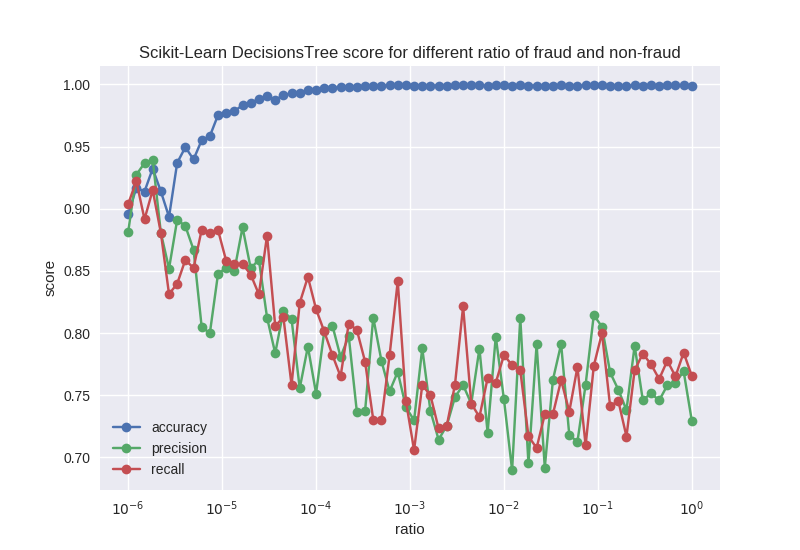
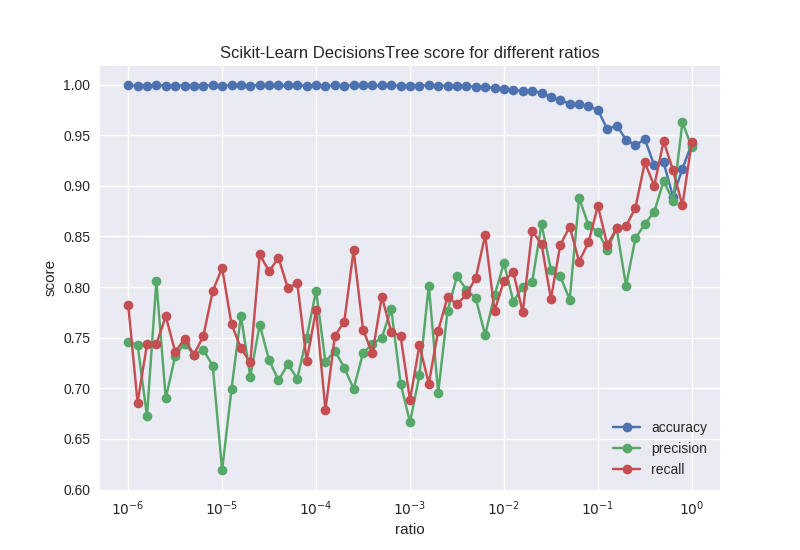
added a plotting tool and created a test function for the dataprocessor

diff --git a/src/decisiontree.py b/src/decisiontree.py
@@ -5,7 +5,7 @@ import scikitplot as skplt
 import time
 from sklearn import tree
 from sklearn.metrics import accuracy_score, recall_score, precision_score
-
+from plotting import plotting_ratio
 from data_process import retrieve_data
 
 """
@@ -15,9 +15,10 @@ runs the classifier class with data from the data package
 def decisionsTree_clf_sklearn():
     # ratio_ = 0.25
 
-    n = 50
-    ratio_ = 10**(-np.linspace(2, 0, n))
-    print (ratio_)
+    n = 61
+    ratio_ = 10**(-np.linspace(6, 0, n))
+    # ratio_ = np.arange(1,101)/100
+    print("ratio: ", ratio_)
     n = len(ratio_)
     timer = np.zeros(n)
     acc_score = np.zeros(n)
@@ -38,20 +39,9 @@ def decisionsTree_clf_sklearn():
         timer[i] =time2 -time1
         # print("time = ",timer[i]," s")
 
-    plt.semilogx(ratio_,acc_score, "-o")
-    plt.semilogx(ratio_,prec_score, "-o")
-    plt.semilogx(ratio_,rec_score, "-o")
-    plt.xlabel("ratio")
-    plt.ylabel("score")
-    plt.title("Scikit-Learn DecisionsTree score for different ratios")
-    plt.legend(['accuracy', "precision", "recall"])
-    plt.show()
-
-
-    print ("ratio: ",ratio_)
+    plotting_ratio(ratio_, acc_score, prec_score, rec_score, "DecisionsTree")
     print("accuracy_score",acc_score)
     print("precision_score",prec_score)
     print("rec_score",rec_score)
-
 
 decisionsTree_clf_sklearn()

diff --git a/src/test_data_process.py b/src/test_data_process.py
@@ -1,0 +1,29 @@
+from data_process import retrieve_data
+import numpy as np
+import unittest
+
+class DataProcessor_test(unittest.TestCase):
+    """
+    This class is a testfunction for the dataprocessor.
+    """
+    def test_canary(self):
+        """testing that the simplest case works."""
+        self.assertEqual(2, 2)
+
+    def test_arrays(self):
+        """
+        testing that the ouput has correct dimension
+        """
+
+
+    def test_undersampling(self):
+        """
+        Checks that the ratio property of the function is working properly
+        """
+        with self.assertRaises(ValueError):
+            retrieve_data(undersampling=True, ratio=1.1)
+        X_train, X_test, y_train, y_test = retrieve_data( undersampling=True,ratio=1)
+        print(len(X_train))
+
+if __name__ == '__main__':
+    unittest.main()

diff --git a/src/plotting.py b/src/plotting.py
@@ -1,0 +1,20 @@
+import numpy as np
+import matplotlib.pyplot as plt
+
+"""
+As we progressed we saw that we wanted to plot in the same way for a lot of the
+methods, so we decided to create a generalized script.
+"""
+
+def plotting_ratio(ratio_, acc_score, prec_score, rec_score, title_method):
+    # plt.plot(ratio_,acc_score, "-o")
+    # plt.plot(ratio_,prec_score, "-o")
+    # plt.plot(ratio_,rec_score, "-o")
+    plt.semilogx(ratio_,acc_score, "-o")
+    plt.semilogx(ratio_,prec_score, "-o")
+    plt.semilogx(ratio_,rec_score, "-o")
+    plt.xlabel("ratio")
+    plt.ylabel("score")
+    plt.title("Scikit-Learn "+ title_method +" score for different ratios")
+    plt.legend(['accuracy', "precision", "recall"])
+    plt.show()

diff --git a/src/data_process.py b/src/data_process.py
@@ -5,6 +5,7 @@ import pandas as pd
 import numpy as np
 import os
 from sklearn.model_selection import train_test_split
+
 def retrieve_data( undersampling=False, ratio = 1):
     path = os.path.dirname(os.path.realpath(__file__))
     file1 = path + "/../data/creditcard_part1.csv"
@@ -32,6 +33,9 @@ def retrieve_data( undersampling=False, ratio = 1):
 
     ### Do undersampling to fix imbalanced class
     if undersampling:
+        if ratio > 1:
+            raise ValueError("ratio cannot be bigger than one")
+
         indices_nonfraud = np.where(y==0)[0]
         indices_fraud = np.where(y==1)[0]
 

diff --git a/src/neuralnetwork.py b/src/neuralnetwork.py
@@ -29,7 +29,7 @@ def neuralnet_clf_sklearn():
         time1 = time.time()
         print(int(100*i/len(learning_rate)), "%", end = "\r")
         clf = sklearn.neural_network.MLPClassifier(
-                                hidden_layer_sizes = (10,10),
+                                hidden_layer_sizes = (20,20),
                                 learning_rate = "adaptive",
                                 learning_rate_init = learning_rate[i],
                                 max_iter = 1000,

diff --git a/README.md b/README.md
@@ -7,8 +7,7 @@ Machine learning project in FYS-STK4155/3155 looking into credit card fraud dete
 
 
 
-We have made a testfunction for the data processor, but since we used scikitlearns
-packages which has been heavily tested, we have not created test for these.
+We have made a testfunction for the data processor, but since we used scikitlearns packages which has been heavily tested, we have not created test for these.
 In order to run the test execute the command below
 ```
 pytest -v

diff --git a/things_to_do.md b/things_to_do.md
@@ -3,3 +3,6 @@
 1. Plotting function
 2. Test function for data process
 3. Write credit card theory
+4. Check the trained undersampled model for the full dataset
+5. K-fold
+6. Update the README.md
